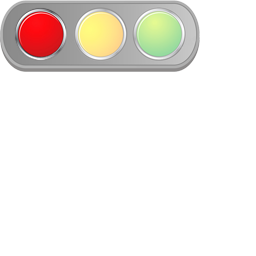
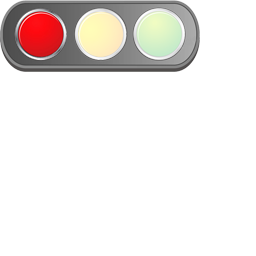
红绿灯调整

Changed region(s): [[0.0, 0.0, 0.7812, 0.2812]]

diff --git a/selfdrive/ui/carrot.cc b/selfdrive/ui/carrot.cc
@@ -2302,11 +2302,13 @@ public:
     void drawTrafficLight(UIState* s) {
         nvgTextAlign(s->vg, NVG_ALIGN_CENTER | NVG_ALIGN_BOTTOM);
         int x = 20;
-        int y = 250;
+        int y = 230;
         int icon_red = icon_size;
         int icon_green = icon_size;
+        int icon_no = icon_size;
         bool red_light = trafficState == 1;
         bool green_light = trafficState == 2;
+        bool no_light = !(trafficState_carrot == 1 || trafficState_carrot == 2);
         if(trafficState_carrot == 1) {
 			red_light = true;
             //icon_red *= 1.5;
@@ -2317,6 +2319,7 @@ public:
 		}
         if (red_light) ui_draw_image(s, { x, y, icon_red, icon_red }, "ic_traffic_red", 1.0f);
         else if (green_light) ui_draw_image(s, { x, y, icon_green, icon_green }, "ic_traffic_green", 1.0f);
+        else if (no_light) ui_draw_image(s, { x, y, icon_no, icon_no }, "ic_traffic_no", 1.0f);
     }
 
     void drawHud(UIState* s) {
@@ -3171,6 +3174,7 @@ void ui_nvg_init(UIState *s) {
   {"ic_speed_bg", "../assets/images/speed_bg.png"},
   {"ic_traffic_green", "../assets/images/traffic_green.png"},
   {"ic_traffic_red", "../assets/images/traffic_red.png"},
+  {"ic_traffic_no", "../assets/images/traffic_no.png"},
   {"ic_tire", "../assets/images/img_tire.png"},
   {"ic_road_speed", "../assets/images/road_speed.png"},
   {"ic_speed_bump", "../assets/images/speed_bump.png"},
